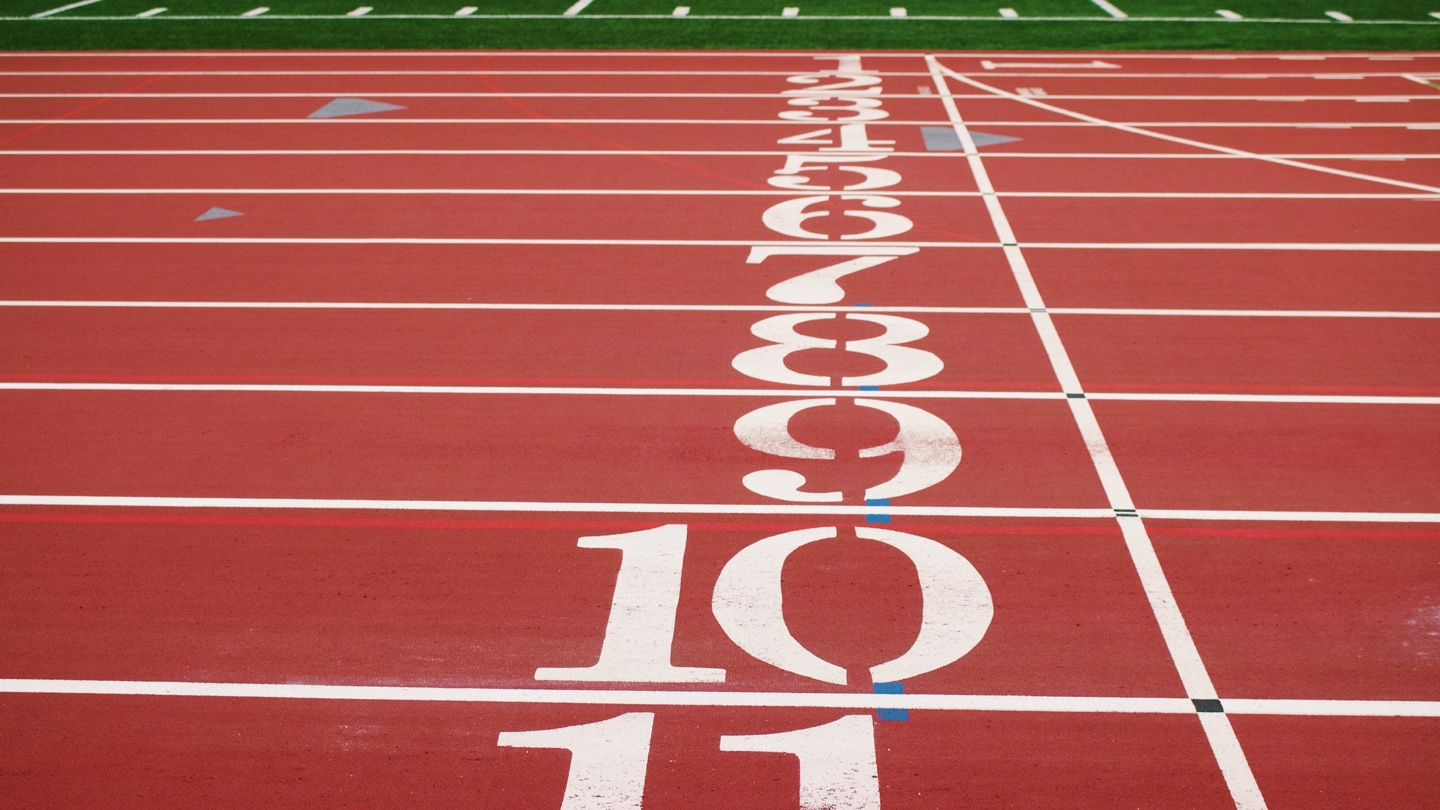
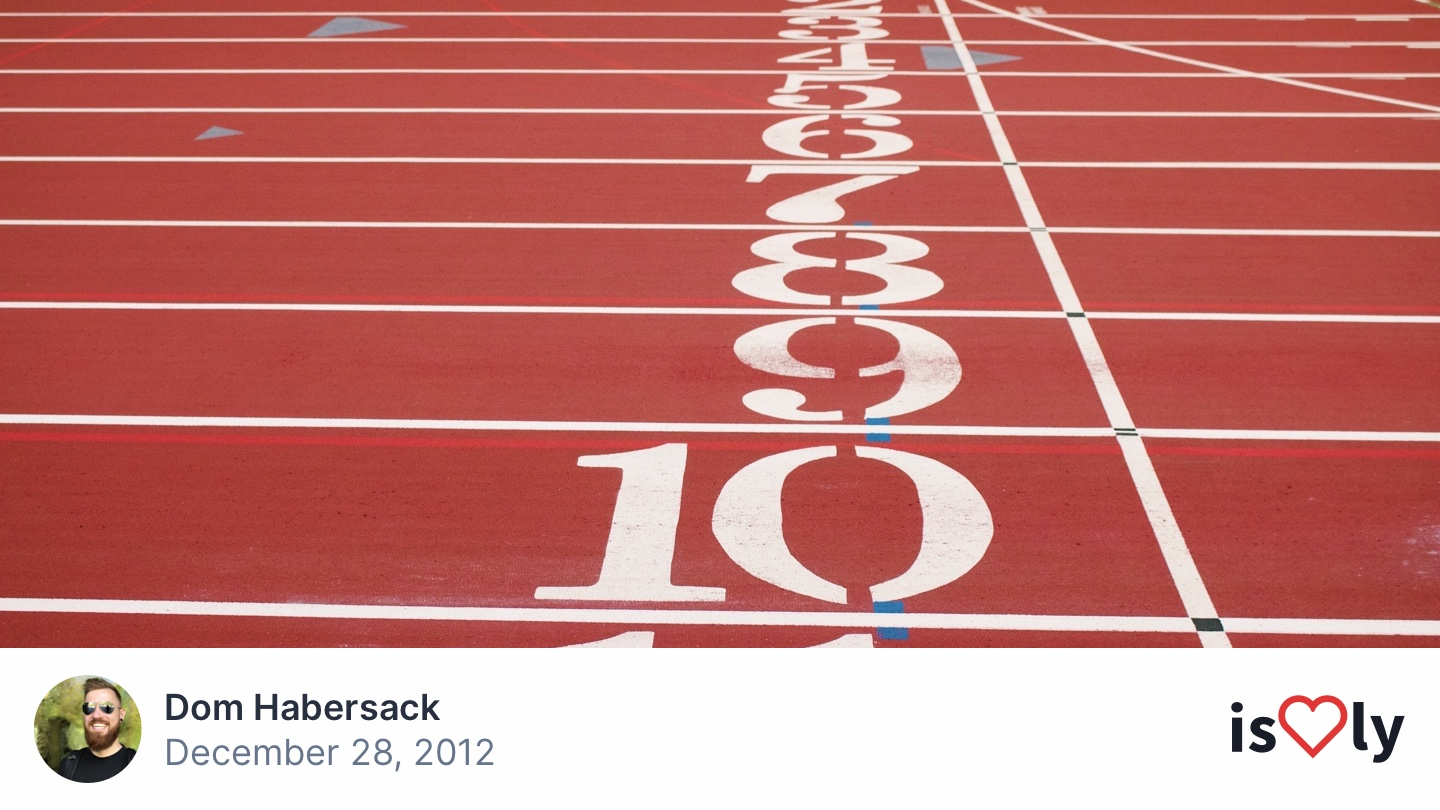
Revert to JPG for rich previews, add previews for newsletters

diff --git a/src/templates/newsletter.js b/src/templates/newsletter.js
@@ -24,6 +24,7 @@ export default ({
   const {
     date,
     permalink,
+    slug,
   } = fields
 
   const {
@@ -52,8 +53,11 @@ export default ({
 
       <RichPreview
         description={excerpt}
+        imageUrl={`/assets/rich-previews/newsletter/${slug}.jpg`}
         permalink={permalink}
+        publishedAt={date}
         title={title}
+        type="article"
       />
 
       <Taper>
@@ -102,6 +106,7 @@ export const pageQuery = graphql`
       fields {
         date
         permalink
+        slug
       }
       frontmatter {
         excerpt

diff --git a/src/components/rich-preview.js b/src/components/rich-preview.js
@@ -106,7 +106,7 @@ export default ({
         />
       )}
 
-      {isArticle && tags.map(tag => (
+      {isArticle && tags?.map(tag => (
         <meta
           content={tag}
           key={`tag-${tag}`}
